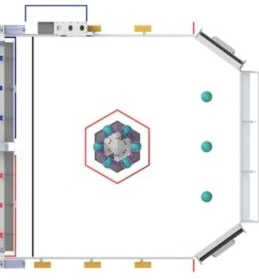
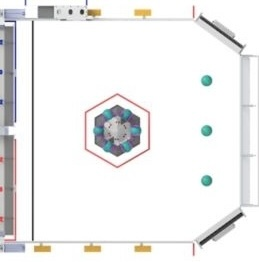
top tier flippy flippy field

diff --git a/lib/auto_page.dart b/lib/auto_page.dart
@@ -105,7 +105,7 @@ class _AutoPageState extends State<AutoPage> {
                                           })
                                 ])),
                         Positioned(
-                          left: fieldWidth / 4,
+                          left: (fieldFlipped ? 2 : 1) * fieldWidth / 3 - 25,
                           top: fieldHeight / 4 - 25,
                           // top: 0,
                           child: Column(
@@ -127,7 +127,7 @@ class _AutoPageState extends State<AutoPage> {
                                 ]
                               ),
                               SizedBox(
-                                height: max(0, fieldHeight * 5 / 12 - 50)
+                                height: fieldHeight / 2 - 50
                               ),
                               Column(
                                 mainAxisAlignment: MainAxisAlignment.end,
